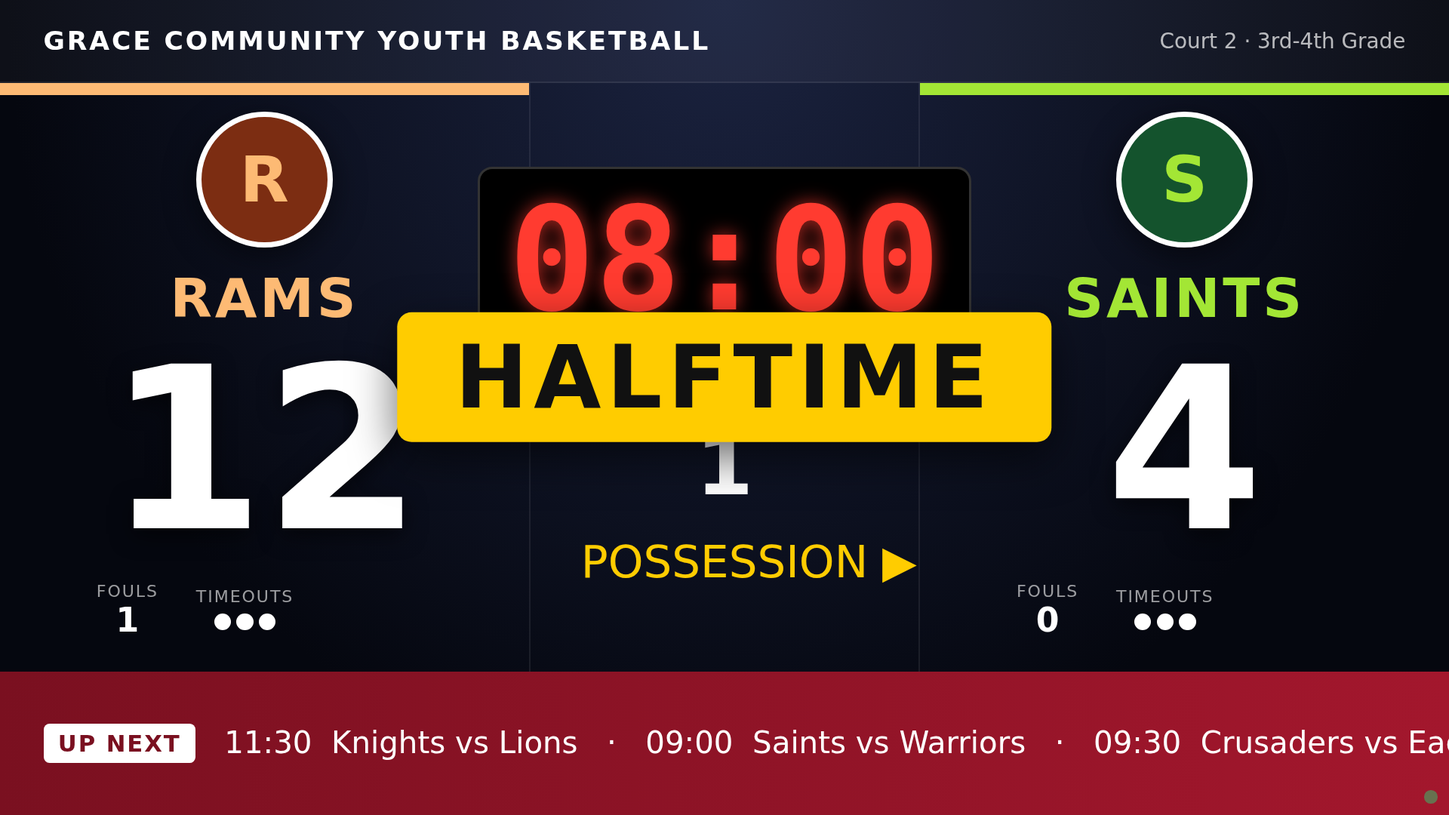
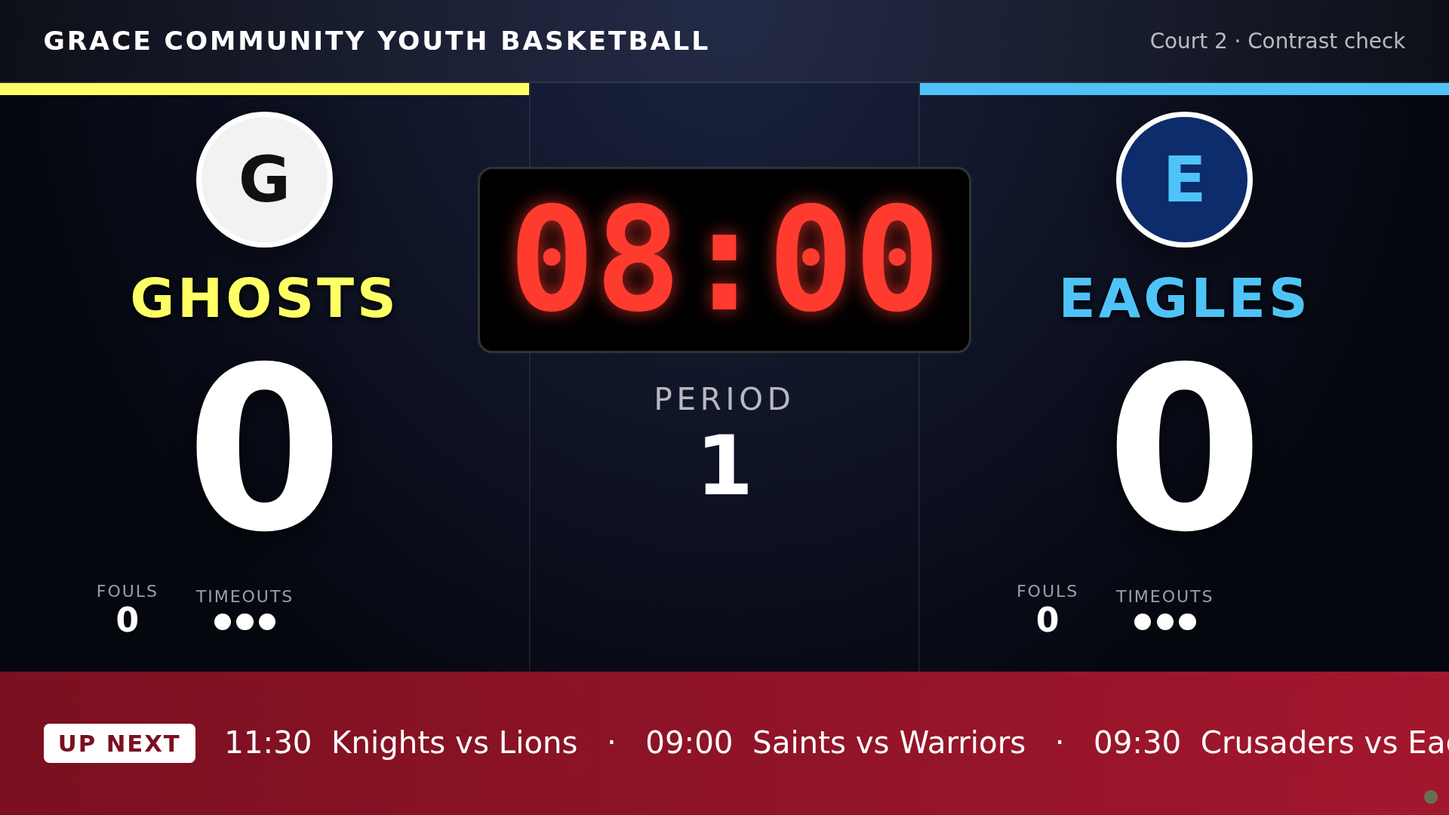
Docs/deliverables for QA round 1: setup section, measured sync, import behavior, contrast note, backlog, on-site checklist; refreshed templates and screenshots

diff --git a/deliverables/UpwardScoreboard-POC.md b/deliverables/UpwardScoreboard-POC.md
@@ -9,7 +9,7 @@ Prepared by Devon (lead developer) with Sage (UI/UX), Avery (QA) and Morgan (PM)
 - Approach: custom build, fully cloud-hosted. There is no computer at the gym; it needs only a TV device with a browser and the scorekeeper's phone or tablet.
 - Three modules: Score (bench controller), Display (TV board plus stream overlay), Admin (teams, courts, schedule).
 - Stack: one TypeScript Node 20 container that serves the web pages, the API and live WebSocket updates, plus managed Postgres.
-- Status: a working POC runs with docker compose. Unit tests (6/6) and an end-to-end smoke test (34/34) pass.
+- Status: a working POC runs with docker compose. After QA round 1: unit tests 8/8, end-to-end smoke test 60/60 and a browser offline test 10/10 (13/13 including the server-freeze case) all pass on a freshly rebuilt container.
 - Recommended host: Render, about $13 per month including managed Postgres.
 
 Research mockups the POC follows:
@@ -18,11 +18,23 @@ Research mockups the POC follows:
 
 ![Scorekeeper controller mockup](mockups/scorekeeper-controller-mockup.png)
 
-## 2. Module features
+## 2. Setup and run (development)
+
+Development defaults only. Never reuse these values on a hosted server.
+
+1. Install Docker with the compose plugin.
+2. In the project folder, copy .env.example to .env (dev values: admin password change-me-admin, court PINs court-1 = 1111 and court-2 = 2222, TZ = America/Chicago).
+3. Run: docker compose up --build
+4. Open http://localhost:3000 and pick a court. Admin is at http://localhost:3000/admin.
+5. In Admin > Today, press "Start on court" for a game. Open /tv/court-1 on the TV and /score/court-1 on the scorekeeper's phone.
+
+Tests: npm test (unit), node scripts/offline-e2e.mjs (browser offline test), node scripts/smoke.mjs (end to end; run it last because it deliberately triggers the 30-second PIN and login lockout), node scripts/latency.mjs (sync time).
+
+## 3. Module features
 
 Status key: Built = in the POC. Partial = partly built. Next = planned, not built.
 
-### 2.1 Score: bench scorekeeper controller
+### 3.1 Score: bench scorekeeper controller
 
 URL: /score/court-1 (one link per court). Mobile-first with big buttons: one column on phones, and team, clock, team side by side on tablets.
 
@@ -41,15 +53,15 @@ URL: /score/court-1 (one link per court). Mobile-first with big buttons: one col
 | Possession arrow | Built | |
 | Undo and redo history | Built | 100 steps. Undoing a basket does not rewind a running clock |
 | Halftime banner, End game and save | Built | The final score is saved to the schedule |
-| Status pills: online, TV connected, two scorekeepers | Built | |
-| Taps during a short network drop are re-sent safely | Partial | Kept in memory only. The server ignores duplicates |
+| Status pills: online, TV connected, two scorekeepers | Built | "Online" means a fresh server message arrived within the last 3 seconds. The app pings every second; after 3 s of silence it shows "Offline · reconnecting…". Turning off Wi-Fi shows Offline immediately. Presence counts drop within about 4–6 s of a device vanishing |
+| Taps during a short network drop are re-sent safely | Partial | Kept in memory only and re-sent after reconnect and re-auth. The server ignores duplicates |
 | Horn sound, player fouls, shot clock, offline app mode | Next | |
 
 ![Controller on a tablet](screenshots/controller-tablet.png)
 
 ![Controller on a phone](screenshots/controller-phone.png)
 
-### 2.2 Display: TV scoreboard and streaming
+### 3.2 Display: TV scoreboard and streaming
 
 URLs: /tv/court-1 (full-screen TV board) and /overlay/court-1 (transparent scorebug for OBS). Both are public and read-only.
 
@@ -57,8 +69,11 @@ TV layout: league name and court/division header. For each team: a color bar, lo
 
 | Behavior | Status | Notes |
 |---|---|---|
-| Live sync from the controller | Built | Pushed over WebSocket, about 50 ms in tests |
-| Automatic reconnect | Built | Retries from 0.5 s up to 8 s. A small red dot blinks while offline |
+| Live sync from the controller | Built | Measured tap-to-TV time over 100 taps (same machine, scripts/latency.mjs): median 6.3 ms, 95th percentile 9.4 ms, max 19.4 ms. Over the internet, add the network round trip |
+| Automatic reconnect | Built | Detects silent drops with a 1 s app ping and a 3 s watchdog, plus the browser's offline/online events. Retries from 0.5 s up to 8 s. A small red dot blinks while offline |
+| Clock while disconnected | Built | Freezes at the moment the connection is lost and is dimmed. It never keeps counting down. After reconnect it jumps to the server's value. In a silent drop (no offline event) it can run up to about 3 s before freezing |
+| Readable colors (contrast) | Built (Sage) | Text on team colors is picked automatically so each color pair is at least 4.5:1. Admin warns about low-contrast color choices |
+| Overlay team names | Built | The OBS overlay shows the team short name (3–4 letters, set in Admin) |
 | Exact state after reconnect or refresh | Built | The server sends the full current state on every connect |
 | Clock accuracy | Built | Computed from server timestamps, so it does not drift |
 | Resync when a TV stick wakes from sleep | Built | |
@@ -81,25 +96,26 @@ Recommendation: the pilot uses the TV only (the overlay is ready). Add option B 
 
 ![OBS overlay (transparent background)](screenshots/overlay-court-1.png)
 
-### 2.3 Admin
+### 3.3 Admin
 
 URL: /admin (admin password).
 
 | Feature | Status | Notes |
 |---|---|---|
 | Today view: courts, live games, links, Start game on court | Built | The TV and controller switch to the new game instantly |
-| Teams: name, short name, primary and accent colors, logo by URL or upload | Built | Uploads of 1 MB or less are stored in the database |
+| Teams: name, short name, primary and accent colors, logo by URL or upload | Built | Colors must be #RRGGBB (empty uses a default; anything else is an error). Uploads must be real PNG, JPEG, GIF or WebP files of 1 MB or less (checked by file content); SVG is refused. Larger files get a clear "limit is 1 MB" message. Logo URLs must start with http:// or https:// |
+| Delete a team | Built | Refused with a friendly message if the team still has games |
 | Courts: add and delete, PIN status | Built | PINs come from server settings in the POC |
 | Schedule: add and delete games, with court, time, division, home and away | Built | Times are in league time (America/Chicago) |
 | Per-matchup overrides: display names and colors (alternate jerseys) | Built | |
-| CSV import and export for courts, teams and schedule | Built | Google Sheets compatible. See section 9 |
+| CSV import and export for courts, teams and schedule | Built | Google Sheets compatible and safe to re-import: nothing is duplicated. Reports created, updated and skipped counts. See section 10 |
 | Change history for each game | Built (API) | Every change is logged with who made it |
 | Direct Google Sheets sync | Next | Sheets API with a service account: pull the schedule, push results |
 | Users and roles | Partial | Admin = password, scorekeeper = court PIN, public viewer = no login. Next: Google sign-in and per-day PINs |
 
 ![Admin Today view](screenshots/admin-today.png)
 
-## 3. Architecture and stack rationale
+## 4. Architecture and stack rationale
 
 ![System architecture](diagrams/architecture.png)
 
@@ -116,7 +132,7 @@ This deliberately differs from the research's heavier option (Turborepo, Express
 
 UI files owned by Sage: public/tv.css, public/tv.html, public/overlay.css, public/overlay.html, public/score.css, public/score.html, public/admin.css, public/admin.html.
 
-## 4. Data model
+## 5. Data model
 
 ![ER data model](diagrams/er-data-model.png)
 
@@ -129,7 +145,7 @@ UI files owned by Sage: public/tv.css, public/tv.html, public/overlay.css, publi
 
 Planned later: seasons, divisions, users with roles, and hashed per-day court PINs.
 
-## 5. Realtime approach
+## 6. Realtime approach
 
 ![Realtime sync and reconnect sequence](diagrams/realtime-sequence.png)
 
@@ -140,22 +156,23 @@ Planned later: seasons, divisions, users with roles, and hashed per-day court PI
 | Ordering | Every change increases a sequence number (seq), and every change is logged in game_events |
 | Clock | Stored as running, remaining time and a server start time. Each screen calculates the time from server time (offset measured by ping), so nothing drifts |
 | Reconnect | Every connect or reconnect receives the full current state, so a TV or controller always shows exactly what the server has |
+| Heartbeat | Server pings every 2 s and drops a connection after about 3.5 s of silence, so presence stays accurate. Browsers send an app-level ping every second and treat 3 s of silence as offline. While offline, clocks freeze and dim |
 | Retries | Each tap has a unique id. Re-sent taps are recognized and applied only once |
 | Two controllers on one game | Commands are queued in arrival order, and both taps count because commands are relative. Screens show a "2 scorekeepers" warning. A controller looking at an old game is refused and refreshed |
 | Undo and redo | Full snapshots, kept in the database, so they survive a restart |
 | Scale | One app instance easily serves a league. Running several instances would need extra coordination later |
 
-## 6. Auth
+## 7. Auth
 
 | Role | POC | Next step |
 |---|---|---|
-| Admin | Password from server settings. Signed session cookie for 12 hours | Google sign-in with a users table |
-| Scorekeeper | PIN for each court, valid only for that court | Per-day PINs or QR codes generated in Admin; limit wrong attempts |
+| Admin | Password from server settings. Signed session cookie for 12 hours. 5 wrong passwords lock that address for 30 s (doubling, max 15 min) with HTTP 429 and Retry-After | Google sign-in with a users table |
+| Scorekeeper | PIN for each court, valid only for that court. 5 wrong PINs close the connection; 10 wrong PINs from one network address lock it for 30 s, doubling each time up to 15 min | Per-day PINs or QR codes generated in Admin |
 | Public viewer | TV and overlay need no login; the server rejects any command from them | Optional public live-scores page |
 
 HTTPS is provided by the host. Secrets live only in host settings, never in the code repository.
 
-## 7. Hosting, deploy and costs
+## 8. Hosting, deploy and costs
 
 All options run the same Docker image plus managed Postgres. Deploys run automatically on each push, or with one command. Prices were checked on October 16, 2026 using the pricing pages below. Usage-based items are estimates.
 
@@ -180,7 +197,7 @@ Deploy steps on Render (planned, not yet done):
 
 Upkeep: nothing weekly. Each season, rebuild for security updates, change the PINs and export the CSVs as a backup.
 
-## 8. Project plan
+## 9. Project plan
 
 | Phase | Goal | Milestones | Owners |
 |---|---|---|---|
@@ -221,28 +238,63 @@ Open decisions for Aaron:
 4. Scorekeepers: a parent volunteer for each game, or a trained crew?
 5. League rules: quarters or halves, period length, timeouts, the foul limit for the bonus, when fouls reset, overtime length. POC defaults: 4 x 8 minutes, 3 timeouts, bonus at 7, reset at halftime.
 
-## 9. Google Sheets import and export templates
+## 10. Google Sheets import and export templates
 
 Files in sheets-templates/. They match the POC importer exactly. Import them in Admin under Import / Export in this order: courts, then teams, then schedule.
 
 | File | Columns | Import behavior |
 |---|---|---|
-| courts.csv | slug, name, location | Updates the court with the same slug, or adds it. Scorekeeper PINs are set separately (COURT_PINS) |
-| teams.csv | name, short_name, primary_color, secondary_color, logo_url | Updates the team with the same name, or adds it. Colors must be #RRGGBB |
-| schedule.csv | date, time, court, division, home, away | Adds games. date is YYYY-MM-DD, time is HH:MM in league time (America/Chicago), court is the court slug, home and away must match team names. Unknown courts are created; rows with unknown teams are rejected and reported |
+| courts.csv | slug, name, location (required: slug, name) | Matched by slug: adds new courts, updates changed ones, skips identical ones. slug must be lowercase letters, digits and dashes. Scorekeeper PINs are set separately (COURT_PINS) |
+| teams.csv | name, short_name, primary_color, secondary_color, logo_url (required: name) | Matched by name: adds, updates or skips. Colors must be #RRGGBB or empty (a bad color is a row error). logo_url must be http(s) or empty |
+| schedule.csv | id, date, time, court, division, home, away (required: date, time, court, home, away; id optional) | If id is filled (from an export), that game is updated. Otherwise games are matched by court + start time + home + away, which the database enforces as unique. Duplicate rows in one file are skipped. date is YYYY-MM-DD, time is HH:MM in league time (America/Chicago), court must be an existing court slug (unknown courts are a row error, not created), home and away must be existing teams |
 
-Exports use the same columns. The schedule export adds home_score, away_score and status, which the importer ignores. In Google Sheets, use File > Download > CSV to produce a file for import, and File > Import > Upload to open an export.
+A file missing a required column is rejected as a whole with a message naming the column. Every bad row is reported with its row number; good rows still import. Re-importing the same file, or an export, changes nothing (all rows reported as skipped).
 
-## 10. Known risks and gaps
+Exports use the same columns. The schedule export starts with the game id and adds home_score, away_score and status, which the importer ignores. In Google Sheets, use File > Download > CSV to produce a file for import, and File > Import > Upload to open an export.
+
+## 11. Known risks and gaps
 
 | Risk or gap | Impact | Mitigation |
 |---|---|---|
 | Gym Wi-Fi (captive portal, weak signal) | The TV or controller can't reach the cloud | Test before the pilot; bring a hotspot or travel router; Keepthescore as fallback |
 | Taps during long outages are kept only in memory | Taps can be lost if the page is closed while offline | Offline app mode with stored queue (next step) |
-| POC-level auth (PINs in server settings, no attempt limit) | Weak against a determined person | Per-day PINs, attempt limits, Google sign-in for admins |
+| POC-level auth (PINs in server settings, 4-digit PINs) | Guessing is now throttled, but PINs are shared and long-lived | Per-day PINs, Google sign-in for admins |
+| Lockouts are per network address and held in memory | A gym shares one address, so someone guessing could briefly lock out the real scorekeeper (10 tries, 30 s). Lockouts reset when the server restarts | Per-person logins later; admin can restart if needed |
 | Single app instance | Restart takes a few seconds (state is preserved) | Fine for a league; coordination layer before scaling out |
 | No database migration tool yet | Riskier schema changes later | Add a migration tool before the first post-launch change |
 | Direct Google Sheets sync not built | Manual CSV steps | Sheets API sync in phase 2 |
 | Streaming not built beyond the overlay | No family stream yet | Phase 3, after the consent policy |
 | Missing features: horn, player fouls, shot clock; matchup logo override is API-only | Possible volunteer requests | Collect pilot feedback and prioritize |
 | Volunteer turnover | Knowledge loss | One-page cheat sheet, managed host, minimal upkeep |
+
+## 12. Known bugs and backlog
+
+From QA round 1 (Avery). Fixed in this round: silent network drops (#1), duplicate schedule imports (#2), PIN and login guessing (#3), oversized logo dropping the connection (#4), contrast (#5, fixed by Sage), unclear CSV errors (#8), raw error when deleting a team (#9), logo file and URL validation (#10).
+
+| Item | Status | Notes |
+|---|---|---|
+| QA #6 | Backlog | From Avery's QA report. The report text was not available to the developer, so see Avery's report for the details |
+| QA #7 | Backlog | From Avery's QA report (see the report for details) |
+| QA #11 | Backlog | From Avery's QA report (see the report for details) |
+| Colored logo images are not contrast-checked | Backlog | Only the team color pairs are checked |
+| Grey team colors near #808080 are borderline | Backlog | They pass at about 4.78:1, just above the 4.5:1 minimum |
+| Clock can run up to about 3 s before freezing in a silent drop | Known limit | Turning Wi-Fi off is detected immediately; a silent drop takes the 3 s watchdog |
+| Offline taps are kept in memory only | Backlog | Lost if the page is closed while offline |
+| Phone controller shows the clock above the teams | Backlog (Sage) | Decide the layout order after the pilot |
+| Horn, player fouls, shot clock; matchup logo override in the Admin form | Backlog | |
+
+## 13. On-site test checklist for Aaron
+
+Do this at the gym about a week before the pilot, with the real TV device and the scorekeeper's phone.
+
+1. Connect the TV device and the phone to the gym Wi-Fi. Note any sign-in page (captive portal); the TV device may not get past it.
+2. Open the TV link full screen on the TV. Check that it is readable from the far bench and the stands, and that the screen does not sleep within 30 minutes.
+3. Open the scorekeeper link on the phone and enter the court PIN. Check that "Online" and "TV connected" show.
+4. Tap +2, a foul and a timeout. The TV should update immediately.
+5. Start the clock and compare it with a phone stopwatch for 2 minutes. It should match within a second.
+6. Turn the TV device's Wi-Fi off for 30 seconds while the clock runs, then on again. The TV clock should freeze and dim, then come back with the correct time and score.
+7. Do the same with the phone. It should show "Offline · reconnecting…", then recover. Taps made just before the drop should count once.
+8. If there are two courts, run both at once and confirm that nothing crosses over.
+9. Try a mobile hotspot as a backup network and repeat step 4.
+10. Write down anything confusing for the volunteer and send it to Morgan.
+

diff --git a/docs/ARCHITECTURE.md b/docs/ARCHITECTURE.md
@@ -30,7 +30,7 @@
 |---|---|
 | `teams` | id, name (unique), short_name, primary_color, secondary_color, logo_url, logo_data (bytea), logo_mime |
 | `courts` | id, slug (unique, used in URLs and PINs), name, location, current_game_id → games |
-| `games` | id, court_id, home_team_id, away_team_id, scheduled_at, division, status (scheduled/live/final), theme jsonb (per-matchup name/color/logo overrides), rules jsonb (period count/length, timeouts, bonus, foul reset), history jsonb ({present, past[], future[]}), final_home, final_away |
+| `games` (unique natural key: court_id + scheduled_at + home + away, `NULLS NOT DISTINCT`) | id, court_id, home_team_id, away_team_id, scheduled_at, division, status (scheduled/live/final), theme jsonb (per-matchup name/color/logo overrides), rules jsonb (period count/length, timeouts, bonus, foul reset), history jsonb ({present, past[], future[]}), final_home, final_away |
 | `game_events` | id, game_id, seq, client_cmd_id, actor (`pin:court-1`, `admin`, `system`), command jsonb, created_at. This is the append-only audit log. |
 
 Next: `seasons`, `divisions`, `users(id, email, role)`, `court_pins(court_id, pin_hash, valid_on)`.
@@ -40,6 +40,7 @@ Next: `seasons`, `divisions`, `users(id, email, role)`, `court_pins(court_id, pi
 - **Server-authoritative state.** Clients send *intent commands* (`{type:"SCORE", team:"home", pts:2}`), never "set score = 42". The server validates them (`parseCommand`), applies them with the pure reducer `src/game.ts`, persists, then broadcasts the new snapshot to everyone on that court.
 - **Sequence numbers.** Every accepted change increments `state.seq`, and undo/redo also move `seq` forward, so clients can always trust the higher number. Each change is also appended to `game_events` with its seq.
 - **Clock from timestamps.** The state stores `{running, remainingMs, startedAt}` (server epoch ms). Each screen computes `remainingMs − (serverNow − startedAt)`, where `serverNow = Date.now() + offset`, and the offset comes from the best ping round-trip. A server-side timer stops the clock at exactly 0. No client ever ticks the clock down itself.
+- **Heartbeat (QA #1).** The server sends a protocol ping and a `time` message every 2 s, and terminates sockets silent for more than 3.5 s (skipping one round if its own event loop stalled). Browsers can't see protocol pings, so clients send an app-level `ping` every 1 s. A 3 s watchdog with no message marks the connection Offline, closes it and reconnects with backoff. `window` offline/online events trigger this immediately. While not Online, TV, overlay and controller freeze the clock at the moment the connection was lost and dim it (`[data-conn]` CSS hook); the snapshot on reconnect restores it. Measured tap-to-TV latency on the box: median 6.3 ms, p95 9.4 ms (`scripts/latency.mjs`).
 - **Reconnect resync.** On every WebSocket (re)connect, and when a tab becomes visible, the server sends a **full snapshot**. Snapshots are small (about 2 KB), so the POC doesn't replay deltas. Heartbeat: a ping every 5 s, and dead sockets are terminated.
 - **Idempotent retries.** Each command carries a client-generated id. The controller queues un-acked taps and re-sends them after a reconnect. The server remembers the last 500 ids per game and acks duplicates without applying them again.
 - **Two controllers on one game.** All changes to a game go through a per-game promise queue, so they're serialized and applied in arrival order. Because commands are relative (+2, foul +1), concurrent taps from two devices both count and never overwrite each other. The clock toggle sends explicit START or STOP based on what that device sees, so a double-press doesn't flip the clock back. Presence is broadcast, and the controller shows "2 scorekeepers" so the bench notices. A controller showing a stale game (the admin switched games) has its commands rejected (`gameId` mismatch) and is resynced. Per-court "lead scorekeeper" locking is a possible later option.
@@ -51,6 +52,8 @@ Next: `seasons`, `divisions`, `users(id, email, role)`, `court_pins(court_id, pi
 Diagrams: `deliverables/diagrams/architecture.png`, `realtime-sequence.png`, `er-data-model.png` (mermaid sources alongside).
 
 ## Auth
+
+POC brute-force protection (QA #3): in-memory limiter (`src/limits.ts`). Admin login: 5 failures per IP lock it for 30 s, doubling to a 15 min maximum, with HTTP 429 and `Retry-After`. PINs: 10 failures per IP lock it the same way (higher than admin because a gym shares one NAT IP), and a socket is closed (code 4008) after 5 bad PINs. Set `TRUST_PROXY=true` behind the host's proxy so `X-Forwarded-For` is used. `RATE_LIMIT_BASE_MS` tunes the base lockout. Logos (QA #10): PNG, JPEG, GIF or WebP only, verified by magic bytes, 1 MB maximum (413 with a message); SVG is rejected; logo URLs must be http(s).
 
 POC: `ADMIN_PASSWORD` gives an HMAC-signed, HttpOnly, SameSite=Strict cookie (12 h). Each court's `COURT_PINS` entry unlocks scoring on that court's WebSocket only. TV and overlay connections are read-only, and the server rejects their commands. Comparisons are constant-time.
 Next steps: Google sign-in (OIDC) for admins with a `users` table and roles (admin / scorekeeper / viewer); per-game-day PINs or QR codes generated in Admin and stored hashed; rate-limiting of PIN attempts; HTTPS is provided by the host.

diff --git a/docs/POC.md b/docs/POC.md
@@ -35,7 +35,9 @@ Big buttons, mobile-first: a single column on phones, and team | clock | team on
 **TV layout** (follows `tv-scoreboard-mockup.png`, 16:9, scales to any resolution):
 league name and court/division header; per team a color bar, logo (or initial badge), name in the team's accent color, huge score, fouls, timeout dots and a BONUS tag; center red LED-style clock, period (OT1, OT2…), possession arrow; bottom "UP NEXT" ticker from the court's schedule; HALFTIME/FINAL banner; a "Waiting for the next game" screen when nothing is on court.
 
-**Live sync**: WebSocket. Every accepted change pushes the full authoritative state to every screen on that court, typically in under 50 ms on the box.
+**Live sync**: WebSocket. Every accepted change pushes the full authoritative state to every screen on that court. Measured on the box: median 6.3 ms, p95 9.4 ms tap-to-TV.
+
+**Online indicator**: Online = a server message within the last 3 s (1 s app ping). Silent drops show Offline within about 3–4 s; Wi-Fi off shows it immediately. While offline the clock freezes (dimmed) and never counts down past a stop. The overlay shows team short names.
 
 **Reconnect behavior**:
 - The display reconnects automatically with exponential backoff (0.5 s up to 8 s). A small dot in the bottom-right corner turns red and blinks while offline.
@@ -60,11 +62,11 @@ Recommendation: pilot with **A on the TV only**. Add B once a volunteer owns OBS
 |---|---|---|
 | Login (admin password from env) | ✅ | HttpOnly cookie, 12 h session. |
 | Today view: courts with the live game, links to TV/Score/Overlay, Start/Re-show a game on its court | ✅ | Starting a game switches the court's TV and controller instantly. |
-| Teams: name, short name, primary + accent colors, logo by URL **or** upload | ✅ | Uploads (≤1 MB png/jpg/gif/webp/svg) are stored in Postgres (`bytea`) and served from `/logos/:id`. |
+| Teams: name, short name, primary + accent colors, logo by URL **or** upload | ✅ | Colors must be `#RRGGBB` (empty → default). Uploads ≤1 MB, PNG/JPEG/GIF/WebP verified by magic bytes; SVG rejected; oversize → 413 with a message (QA #4, #10). URLs must be http(s). Deleting a team that has games → friendly 409 (QA #9). Contrast: Sage's `public/contrast.js` keeps each text/color pair ≥ 4.5:1 and warns in Admin. |
 | Courts: add/delete, PIN status | ✅ | PINs come from the `COURT_PINS` env. |
 | Schedule: add games (court, time, division, home/away), delete | ✅ | |
 | Per-matchup overrides: display names and colors (alternate jerseys) | ✅ | Stored in `games.theme`. Logo override is supported by the API, not the form. |
-| CSV import/export for teams, courts and schedule in Google-Sheets-friendly columns | ✅ | Teams upsert by name; courts upsert by slug; schedule rows are added (bad rows reported, unknown court slugs auto-created, unknown teams rejected). Export adds scores and status. Formula-injection safe. Templates: `deliverables/sheets-templates/`. Import order: courts → teams → schedule. |
+| CSV import/export for teams, courts and schedule in Google-Sheets-friendly columns | ✅ | **Idempotent (QA #2):** re-importing never duplicates; returns created/updated/skipped. Schedule matches by exported `id`, else court + start time + home + away (unique index); in-file duplicates are skipped. Explicit errors (QA #8): missing required column → 400; bad color, non-http logo URL, bad date/time, **unknown court slug** (no longer auto-created), unknown team → row errors. |
 | League time zone | ✅ | `TZ` (default `America/Chicago`, Kansas City area). Used for CSV times, the "up next" ticker and admin display, regardless of the viewer's device time zone. |
 | Game event log (`GET /api/games/:id/events`) | ✅ (API) | Audit of every change, with actor. |
 | Real Google Sheets sync | ⏭ | Use the Sheets API v4 with a service account shared on the league sheet. "Pull schedule" reads `Schedule!A:F` (`spreadsheets.values.get`) through the same import code. "Push results" writes scores back (`values.update`). Optional nightly cron. |

diff --git a/README.md b/README.md
@@ -33,7 +33,9 @@ Game-day flow: in Admin → Today press **Start on court** for a game. The TV fo
 ```bash
 npm install
 npm test                  # reducer unit tests (score, fouls/bonus, clock, timeouts, undo/redo, validation)
-node scripts/smoke.mjs    # end-to-end against a running server: 2 courts, WS sync, reconnect, undo, CSV
+CHROME_PATH=/usr/bin/google-chrome node scripts/offline-e2e.mjs  # Playwright setOffline: Offline in <5 s, clock freezes, recovers
+node scripts/smoke.mjs    # end-to-end: 2 courts, sync, reconnect, undo, idempotent CSV, errors, logos, rate limits (run LAST: it locks the IP for 30 s)
+node scripts/latency.mjs  # tap -> TV latency (median/p95)
 CHROME_PATH=/usr/bin/google-chrome node scripts/screenshots.mjs   # writes docs/screenshots/*.png
 ```
 
